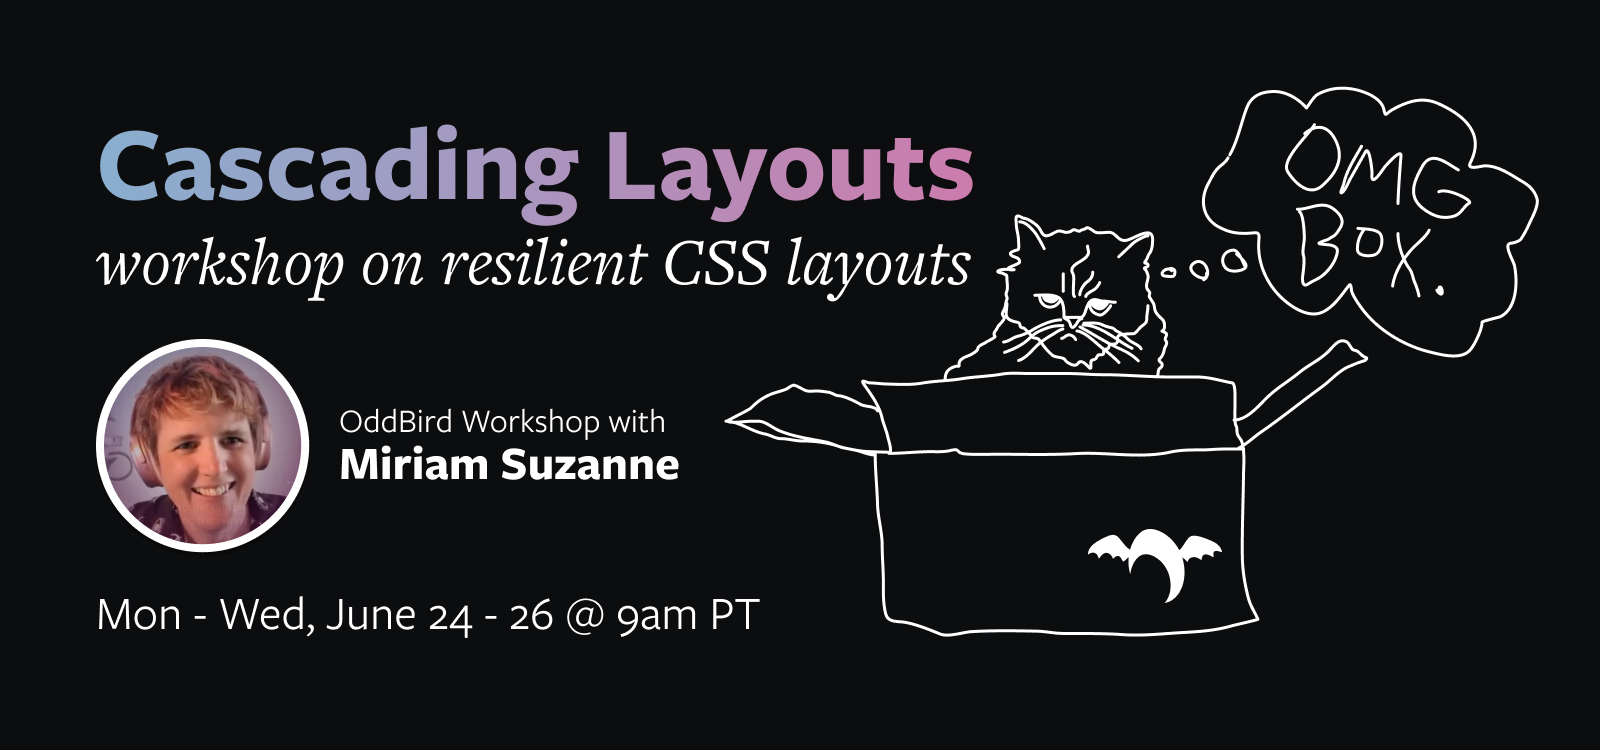
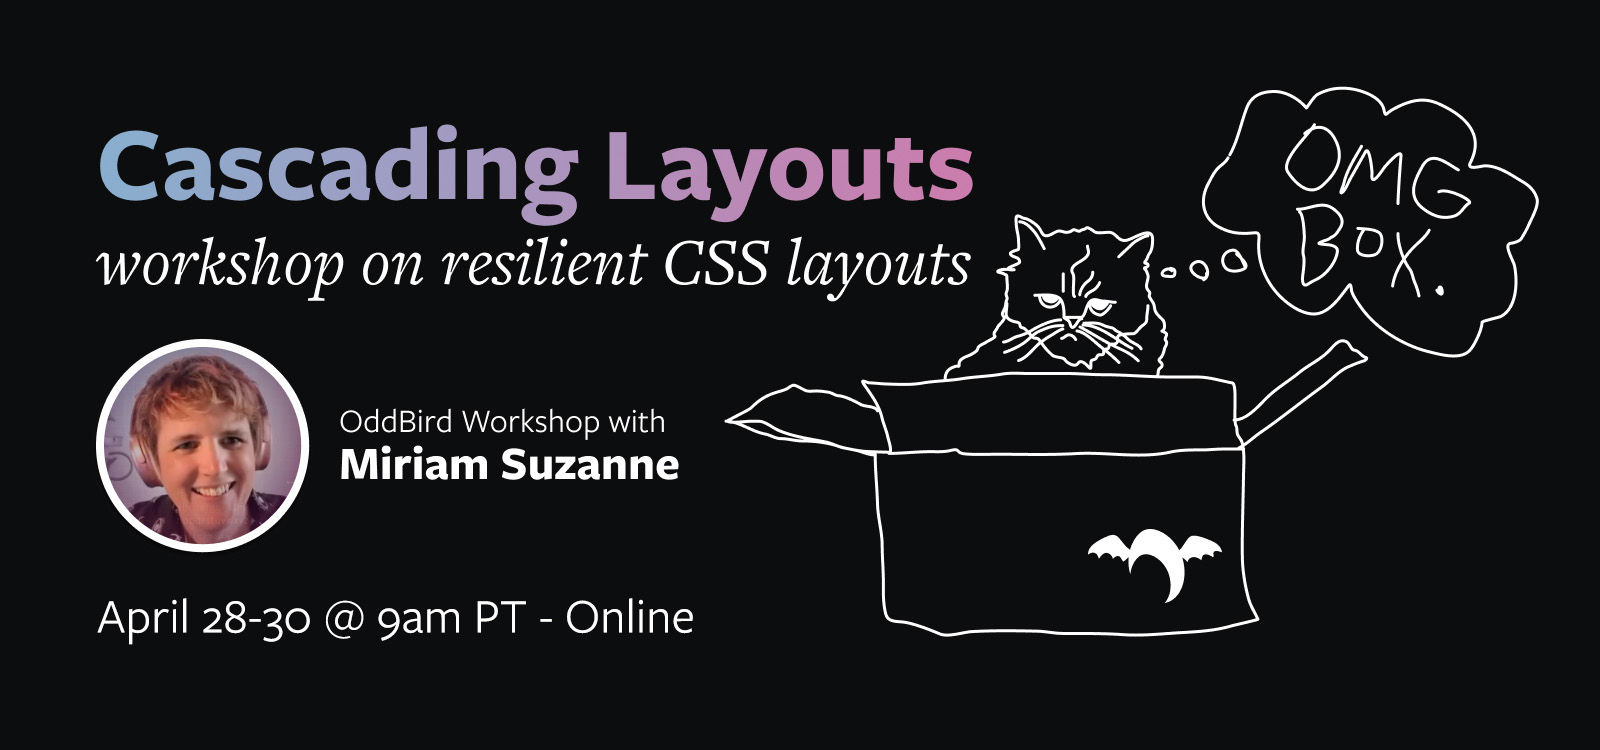
added start end times, updated social image

Changed region(s): [[0.0625, 0.7973, 0.4688, 0.8587]]

diff --git a/content/workshops/cascading-layouts.md b/content/workshops/cascading-layouts.md
@@ -45,6 +45,8 @@ events:
     date: 2025-04-28
     end: 2025-04-30
 callout_content: |
+  9am - 11:30am PT
+
   [Early bird tickets](https://ti.to/pland/css-layout)
   on sale through April 12. For workshop
   updates and demos of workshop content,
